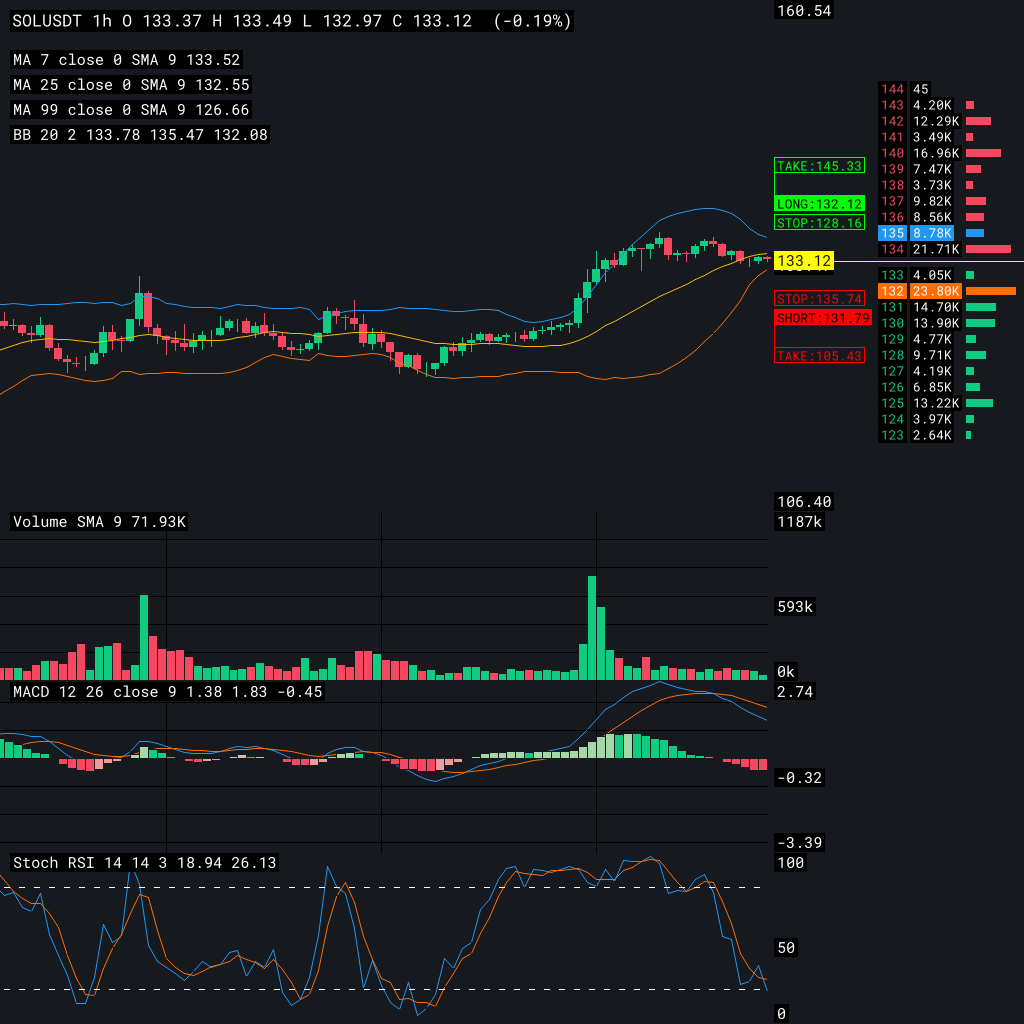
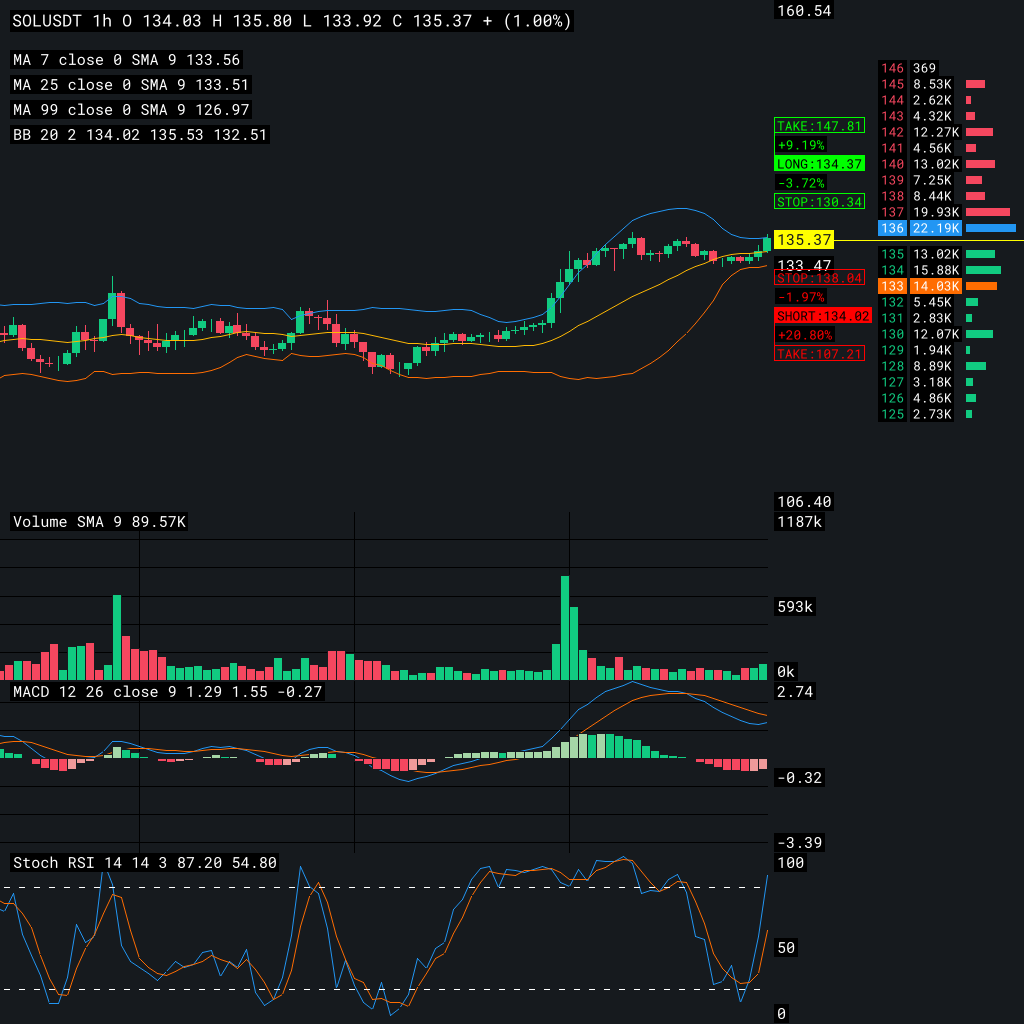
fix: correct percent

diff --git a/feeder/src/charts/painters.rs b/feeder/src/charts/painters.rs
@@ -1389,21 +1389,35 @@ pub fn draw_signals(
         let h = price_bounding_rect.height() as f32;
         // let factor_y = (y / current_price as f32) as f32;
 
+        let entry_percent = ((signal.entry_price - current_price) / current_price) * 100.0;
+        let target_percent = ((signal.target_price - current_price) / current_price) * 100.0;
+        let stop_percent = ((signal.stop_loss - current_price) / current_price) * 100.0;
+
         // Mark position
         let stop_y = if signal.direction == "long" {
             y - 2.0 * h
         } else {
             y + 2.0 * h
         };
-        let entry_y = if signal.direction == "long" {
+        let stop_percent_y = if signal.direction == "long" {
             y - 3.0 * h
         } else {
             y + 3.0 * h
         };
-        let target_y = if signal.direction == "long" {
+        let entry_y = if signal.direction == "long" {
+            y - 4.0 * h
+        } else {
+            y + 4.0 * h
+        };
+        let target_percent_y = if signal.direction == "long" {
             y - 5.0 * h
         } else {
             y + 5.0 * h
+        };
+        let target_y = if signal.direction == "long" {
+            y - 6.0 * h
+        } else {
+            y + 6.0 * h
         };
 
         // Draw line
@@ -1436,6 +1450,23 @@ pub fn draw_signals(
             color,
         );
 
+        // stop_percent
+        let mut stop_percent = stop_percent;
+        if signal.direction == "short" {
+            stop_percent *= -1.0;
+        }
+        let prefix = if stop_percent > 0.0 { "+" } else { "" };
+        let _ = draw_label(
+            img,
+            font,
+            &format!("{}{:.2}%", prefix, stop_percent),
+            x + 1.0,
+            stop_percent_y,
+            label_scale,
+            color,
+            Rgb([BLACK.0, BLACK.1, BLACK.2]),
+        );
+
         // entry
         let _ = draw_label(
             img,
@@ -1450,6 +1481,23 @@ pub fn draw_signals(
             label_scale,
             Rgb([BLACK.0, BLACK.1, BLACK.2]),
             color,
+        );
+
+        // target_percent
+        let mut target_percent = target_percent;
+        if signal.direction == "short" {
+            target_percent *= -1.0;
+        }
+        let prefix = if target_percent > 0.0 { "+" } else { "" };
+        let _ = draw_label(
+            img,
+            font,
+            &format!("{}{:.2}%", prefix, target_percent),
+            x + 1.0,
+            target_percent_y,
+            label_scale,
+            color,
+            Rgb([BLACK.0, BLACK.1, BLACK.2]),
         );
 
         // target
